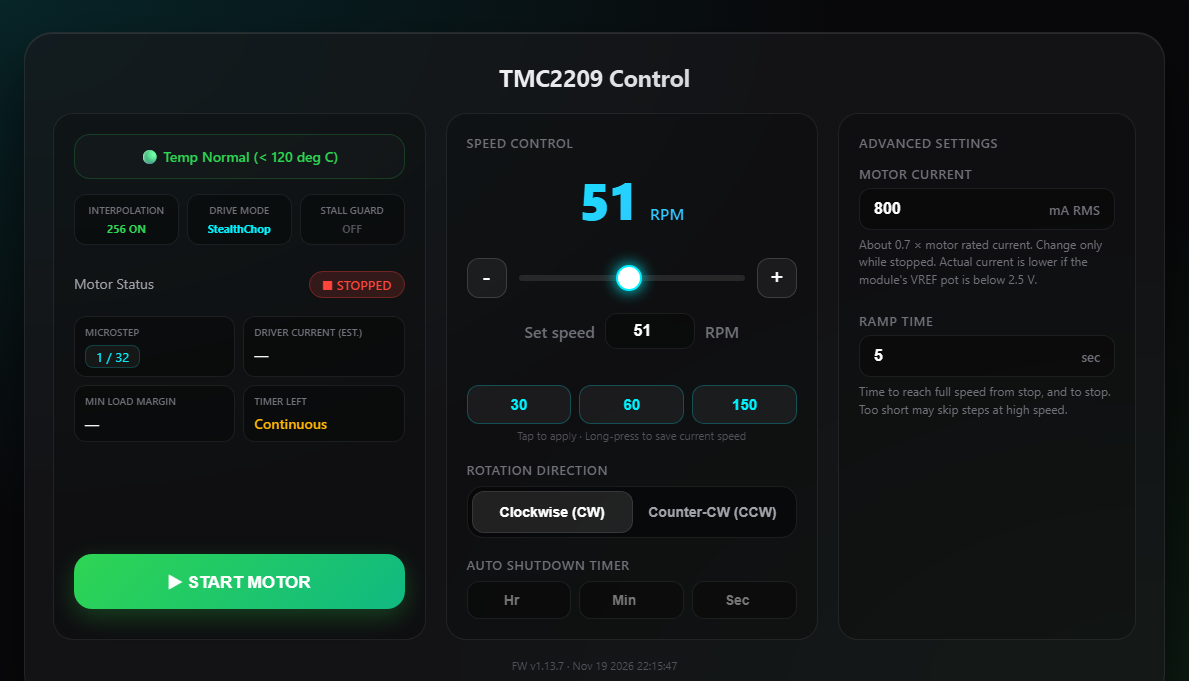
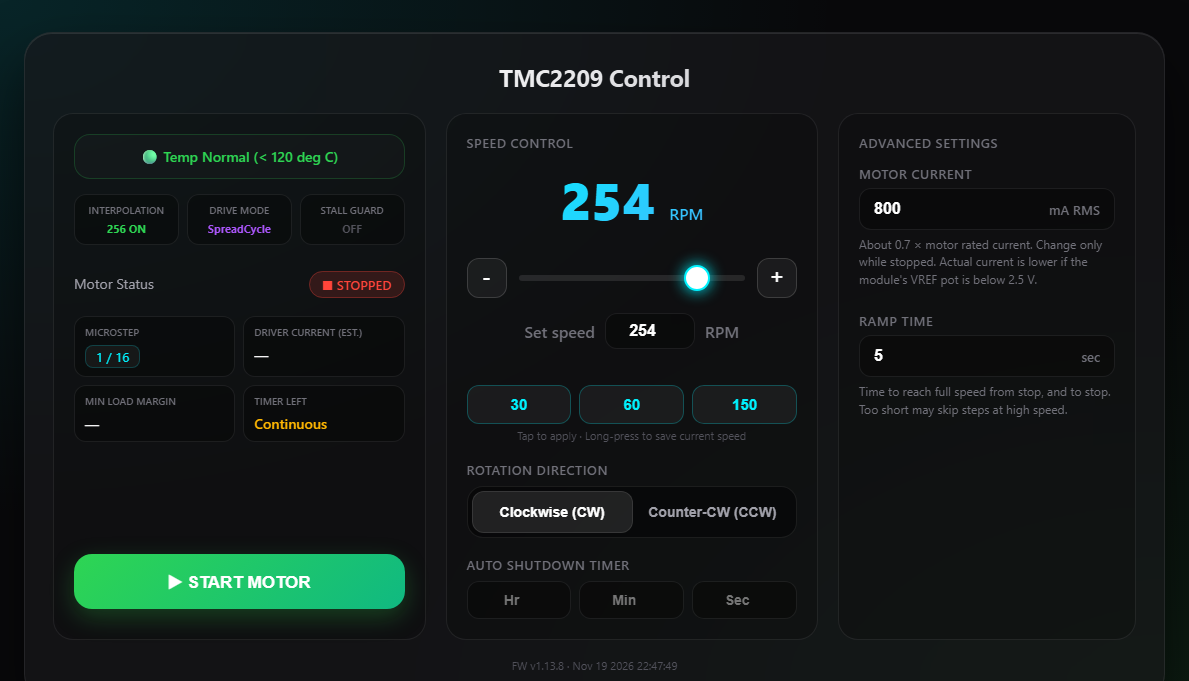
docs: note the 999 h countdown limit; screenshot for v1.13.8

diff --git a/README.md b/README.md
@@ -2,7 +2,7 @@
 
 用 ESP32 + TMC2209 做的步進馬達網頁控制面板。連上 ESP32 的 Wi-Fi 熱點，就能用手機或電腦控制。
 
-<img width="800" alt="控制面板畫面 (FW v1.13.7)" src="docs/screenshot.png" />
+<img width="800" alt="控制面板畫面 (FW v1.13.8)" src="docs/screenshot.png" />
 
 ---
 
@@ -11,7 +11,7 @@
 **操作**
 * 轉速 0.1 ~ 450 RPM：拉桿、+/- 鍵或直接輸入
 * 三顆快捷鍵（預設 30 / 60 / 150 RPM），長按可存入目前轉速
-* 正反轉、倒數計時自動停止、可調加減速時間（0.2 ~ 10 秒）
+* 正反轉、倒數計時自動停止（最長 999 時 59 分 59 秒）、可調加減速時間（0.2 ~ 10 秒）
 * 電流可調 200 ~ 1200 mA（只能在馬達完全停止時修改）。面板的 Driver Current 是估算值：假設模組 VREF ≥ 2.5V，旋鈕調低時實際電流會比較小
 * 設定斷電保留；多個分頁或手機會同步顯示
 * 響應式版面：手機、平板、電腦都好用
